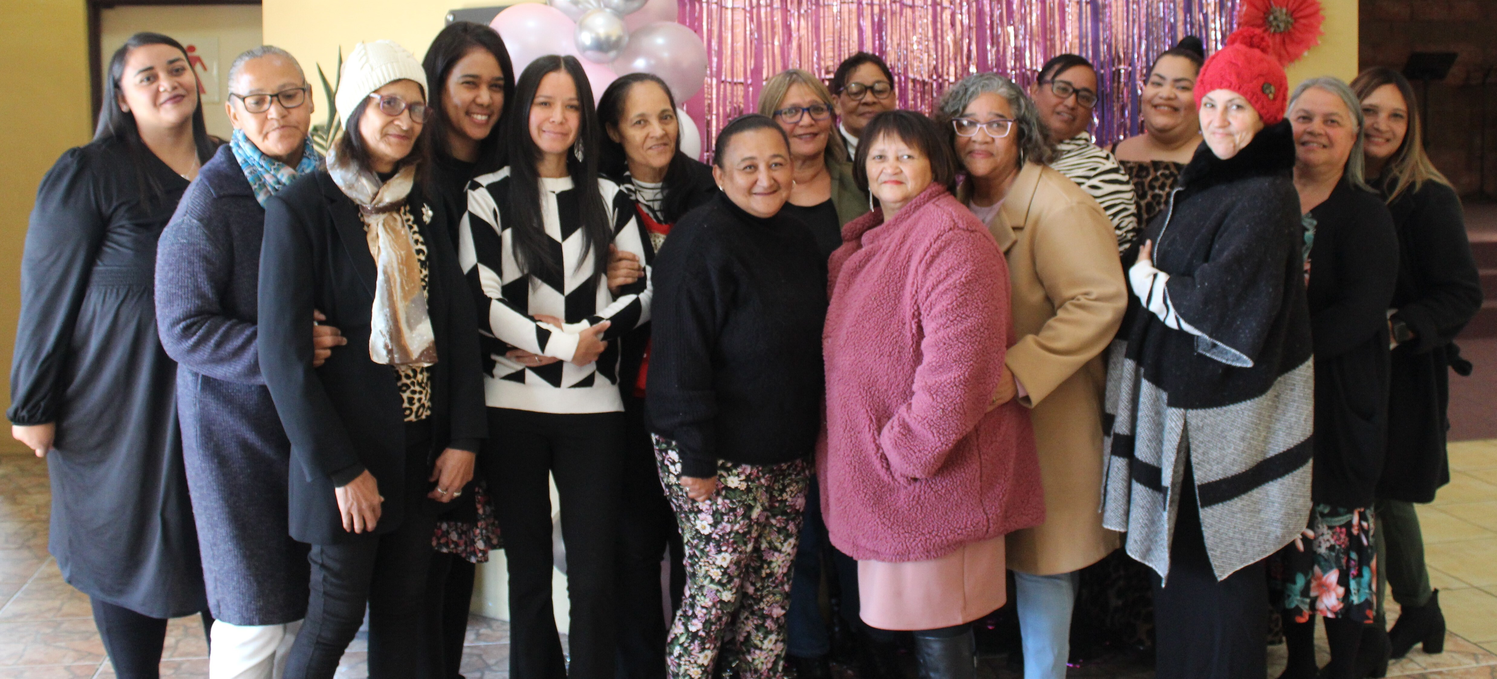
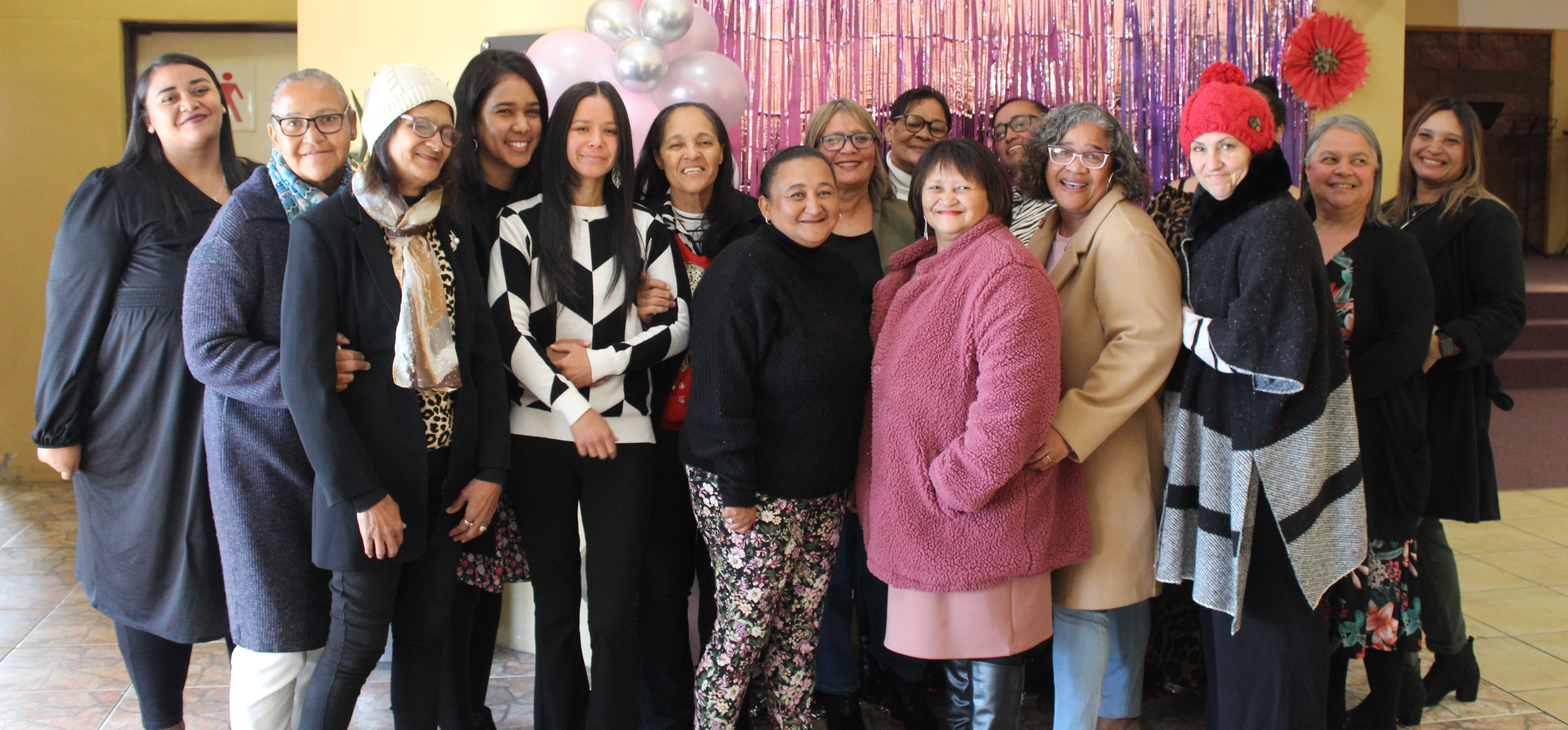
Add files via upload

diff --git a/js/slideshow.js b/js/slideshow.js
@@ -43,16 +43,17 @@
       return;
     }
 
-    const moveFromX = index % 2 === 0 ? '-6%' : '6%';
-    const moveToX = index % 2 === 0 ? '4%' : '-4%';
+    // Keep movement inside frame on narrow viewports.
+    const moveFromX = index % 2 === 0 ? '-3.5%' : '3.5%';
+    const moveToX = index % 2 === 0 ? '2.4%' : '-2.4%';
 
     image.style.transition = 'none';
-    image.style.transform = `translate3d(${moveFromX}, 0, 0) scale(1.16)`;
+    image.style.transform = `translate3d(${moveFromX}, 0, 0) scale(1.14)`;
 
     window.requestAnimationFrame(() => {
       window.requestAnimationFrame(() => {
         image.style.transition = `transform ${imageMotionDurationMs}ms cubic-bezier(0.19, 0.72, 0.22, 1)`;
-        image.style.transform = `translate3d(${moveToX}, 0, 0) scale(1.03)`;
+        image.style.transform = `translate3d(${moveToX}, 0, 0) scale(1.09)`;
       });
     });
   };
@@ -99,7 +100,6 @@
       return;
     }
 
-    resetImageMotion(slides[currentIndex]);
     slides[currentIndex].classList.remove('is-active');
     slides[nextIndex].classList.add('is-active');
     restartImageMotion(slides[nextIndex], nextIndex);

diff --git a/styles/slideshow.css b/styles/slideshow.css
@@ -47,6 +47,7 @@
   inset: 0;
   width: 100%;
   height: 100%;
+  overflow: hidden;
   z-index: 1;
 }
 
@@ -54,7 +55,7 @@
   content: "";
   position: absolute;
   inset: 0;
-  background: linear-gradient(120deg, rgba(0, 0, 0, 0.55), rgba(0, 0, 0, 0.34));
+  background: rgba(0, 0, 0, 0.34);
   z-index: 2;
 }
 
@@ -63,6 +64,7 @@
   height: 100%;
   object-fit: cover;
   object-position: center center;
+  transform-origin: center center;
   display: block;
 }
 
